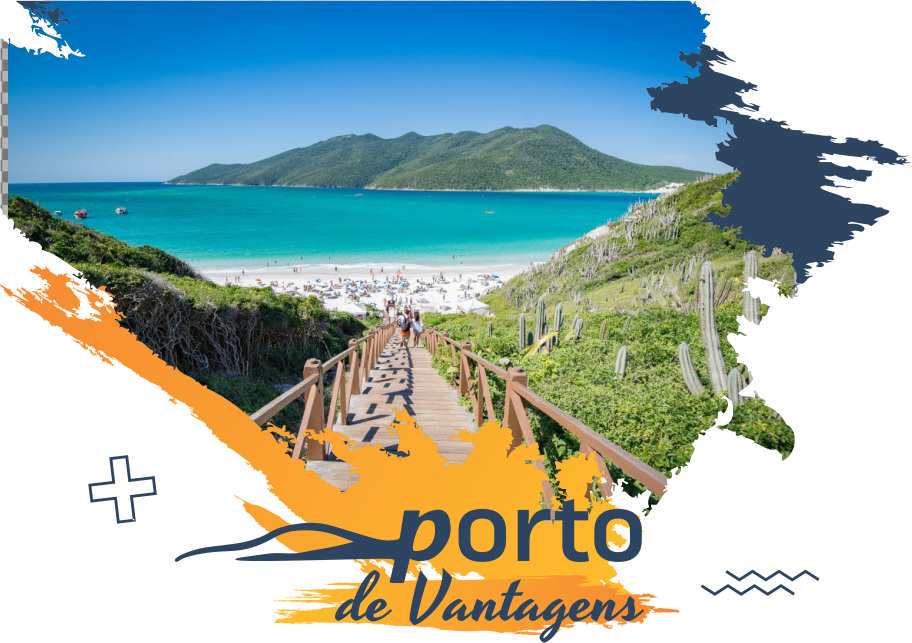
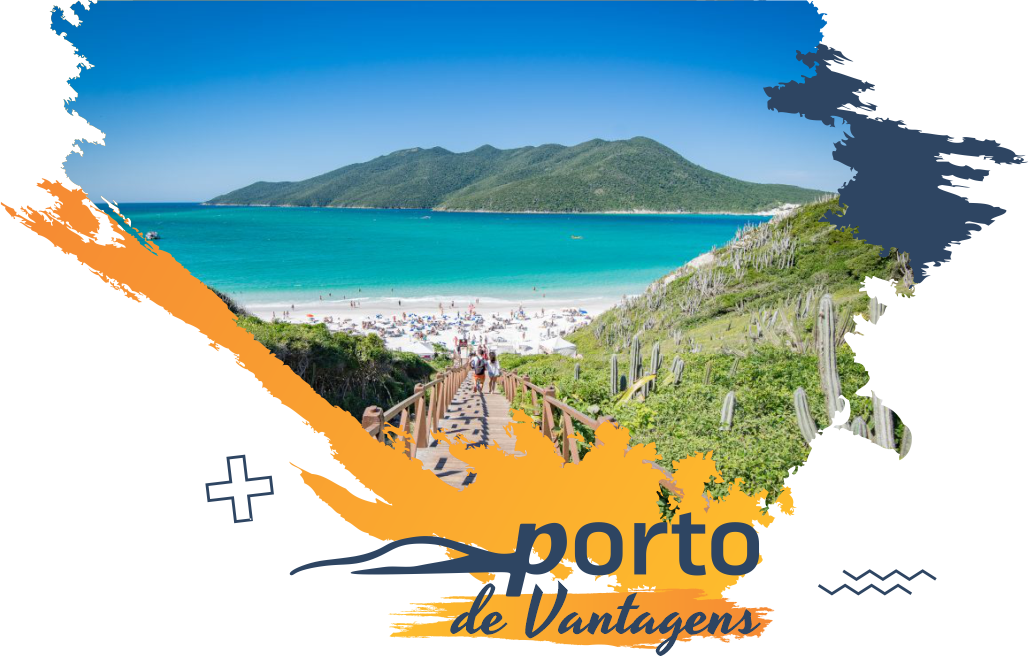
Adicionando nova página de turismo

diff --git a/src/pages/Tourism/Tourism.jsx b/src/pages/Tourism/Tourism.jsx
@@ -1,0 +1,55 @@
+import Footer from "../../components/Footer/Footer";
+import './tourism.css';
+import Navbar from '../../components/Navbar/index';
+import cabofrioImg from '../../assets/images/cabofrio.png'
+import arraialImg from '../../assets/images/arraial.png'
+import buziosImg from '../../assets/images/buzios.png'
+function Tourism() {
+    return (
+        <div className="container">
+            <Navbar />
+            <div className="content">
+                <div className="tourism">
+                    <h1>Turismo</h1>
+                    <div className="text">
+                        <p>Praias encantadoras, mar de águas claras, natureza exuberante e paisagens de tirar o fôlego.<br />
+                            Além de aproveitar seus cupons de desconto, conheça também os melhores lugares para curtir em Arraial do Cabo, Buzios e
+                            Cabo Frio<br />
+                        </p>
+                    </div>
+                    <div className="city">
+                        <h2>Arraial do Cabo</h2>
+                        <p>Conhecida como Caribe brasileiro, Arraial do Cabo concentra praias deslumbrantes, com águas claras que variam entre tons de azul
+                            e verde. A cidade possui uma incrível biodiversidade e não é difícil encontrar golfinhos e tartarugas no mar, sendo esse um dos
+                            principais motivos que tornam Arraial a capital do mergulho. No local, há diversas opções de lazer, como passeios de barco, surf
+                            e trilhas, para quem deseja apreciar a natureza e contemplar as belas paisagens da cidade.</p>
+                        <img src={arraialImg} alt="Arraial do Cabo" />
+                        <a href="https://www.arraial.rj.gov.br/portal/turismo/9" target="_blank" rel="noreferrer">+ Turismo em Arraial do Cabo</a>
+                    </div>
+                    <div className="city">
+                        <h2>Buzios</h2>
+                        <p>A Armação dos Búzios, ou apenas Búzios, é uma península de apenas oito quilômetros de extensão, mas que reúne mais de 20 opções
+                            de praias com diferentes características que agradam todos os gostos. A cidade encanta por suas belas pousadas, excelente gastronomia,
+                            vida noturna agitada, boas opções de compras e, claro, pela deslumbrância de suas paisagens. Apesar de pequeno, o balneário oferece tantas
+                            opções de lazer que é difícil não querer conhecer todas.</p>
+                        <img src={buziosImg} alt="Buzios" />
+                        <a href="https://turismo.buzios.rj.gov.br/" target="_blank" rel="noreferrer">+ Turismo em Buzios</a>
+                    </div>
+                    <div className="city">
+                        <h2>Cabo Frio</h2>
+                        <p>A maior cidade da Região dos Lagos, Cabo Frio possui localização privilegiada, já que está entre Búzios e Arraial do Cabo.
+                            A cidade se destaca pela ótima infraestrutura para os turistas, com diversas opções de hospedagem e um comércio movimentado
+                            para quem gosta de fazer compras. Apesar de serem distantes umas das outras, as praias da região são de fácil acesso e
+                            oferecem paisagens naturais incríveis.</p>
+                        <img src={cabofrioImg} alt="Cabo Frio" />
+                        <a href="https://turismo.cabofrio.rj.gov.br/" target="_blank" rel="noreferrer">+ Turismo em Cabo Frio</a>
+                    </div>
+                </div>
+            </div>
+            <Footer />
+        </div>
+
+    )
+}
+
+export default Tourism;

diff --git a/src/pages/Tourism/tourism.css b/src/pages/Tourism/tourism.css
@@ -1,0 +1,81 @@
+.tourism {
+  display: flex;
+  flex-direction: column;
+  align-items: flex-start;
+  justify-content: center;
+  width: 80%;
+  margin: 60px 0 120px 0;
+}
+
+.tourism h1 {
+  padding: 10px 0;
+}
+
+.tourism .text {
+  display: flex;
+  flex-direction: column;
+  align-items: flex-start;
+  justify-content: center;
+  width: 80%;
+  margin-bottom: 40px;
+}
+
+.tourism .text span {
+  font-weight: 700;
+  margin-bottom: 10px;
+}
+
+.tourism .city {
+  display: flex;
+  flex-direction: column;
+  align-items: flex-start;
+  justify-content: center;
+  margin-bottom: 30px;
+}
+
+.tourism .city h2 {
+  margin-bottom: 15px;
+}
+
+.tourism .city p {
+  margin-bottom: 15px;
+}
+
+.tourism .city img {
+  margin-bottom: 15px;
+}
+
+.tourism .city a {
+  background-color: #f58634;
+  color: #fff;
+  padding: 12px;
+  border-radius: 8px;
+  border: none;
+  font-weight: 700;
+  font-size: 16px;
+  text-align: center;
+  margin-bottom: 40px;
+  text-decoration: none;
+}
+
+@media (max-width: 400px) {
+  .tourism {
+    display: flex;
+    flex-direction: column;
+    align-items: flex-start;
+    justify-content: center;
+    width: 80%;
+  }
+  .tourism h1 {
+    padding: 15px;
+    font-size: 22px;
+  }
+
+  .tourism .text h3 {
+    font-size: 16px;
+  }
+
+  .tourism .text p {
+    font-size: 14px;
+  }
+}

diff --git a/src/components/Navbar/index.js b/src/components/Navbar/index.js
@@ -11,8 +11,7 @@ import {
 import { Link } from 'react-router-dom';
 
 const Navbar = () => {
-
-  const [isOpenModal, setIsOpenModal] = useState(false);
+const [isOpenModal, setIsOpenModal] = useState(false);
 
   function handleOpenModal() {
     setIsOpenModal(true)
@@ -22,14 +21,7 @@ const Navbar = () => {
     setIsOpenModal(false)
   }
 
-
   Modal.setAppElement('#root');
-
-
-
-
-
-
 
   return (
     <div className="container">
@@ -46,11 +38,14 @@ const Navbar = () => {
             Onde Usar?
           </NavLink>
           <NavLink to='/parceiros' activeStyle>
-            Seja um parceiro
+            Parceiros
           </NavLink>
-          <NavLink to='/contato' activeStyle>
-            Fale Conosco
+          <NavLink to='/turismo' activeStyle>
+           Turismo
           </NavLink>
+          {/* <NavLink to='/contato' activeStyle>
+            Contato
+          </NavLink> */}
           {/* Second Nav */}
           {/* <NavBtnLink to='/sign-in'>Sign In</NavBtnLink> */}
           <Bars handleOpenModal={handleOpenModal}></Bars>

diff --git a/src/pages/RegulationPage/regulationPage.css b/src/pages/RegulationPage/regulationPage.css
@@ -1,16 +1,17 @@
-.regulation {
+.regulation-page {
   display: flex;
   flex-direction: column;
   align-items: flex-start;
   justify-content: center;
-  margin: 60px 0;
+  width: 80%;
+  margin: 60px 0 120px 0;
 }
 
-.regulation h1 {
+.regulation-page h1 {
   padding: 30px;
 }
 
-.regulation .text {
+.regulation-page .text {
   display: flex;
   flex-direction: column;
   align-items: flex-start;
@@ -18,29 +19,29 @@
   width: 80%;
 }
 
-.regulation .text span {
+.regulation-page .text span {
   font-weight: 700;
   margin-bottom: 10px;
 }
 
 @media (max-width: 400px) {
-  .regulation {
+  .regulation-page {
     display: flex;
     flex-direction: column;
     align-items: flex-start;
     justify-content: center;
     width: 80%;
   }
-  .regulation h1 {
+  .regulation-page h1 {
     padding: 15px;
     font-size: 22px;
   }
 
-  .regulation .text h3 {
+  .regulation-page .text h3 {
     font-size: 16px;
   }
 
-  .regulation .text p {
+  .regulation-page .text p {
     font-size: 14px;
   }
 }

diff --git a/src/routes/Routes.js b/src/routes/Routes.js
@@ -22,6 +22,7 @@ import PrivacyPolicyPage from '../pages/PrivacyPolicyPage/PrivacyPolicyPage'
 import CompaniesEdit from '../pages/Admin/CompaniesEdit/CompaniesEdit';
 import CuponsEdit from '../pages/Admin/CuponsEdit/CuponsEdit';
 import EditUser from '../pages/Admin/EditUser/EditUser';
+import Tourism from '../pages/Tourism/Tourism';
  
 function Routes() {
     return (
@@ -37,6 +38,7 @@ function Routes() {
             <RouteWrapper exact path="/new" component={UploadImage} />
             <RouteWrapper exact path="/termos-de-uso" component={TermsOfUsePage} />
             <RouteWrapper exact path="/politica-de-privacidade" component={PrivacyPolicyPage} />
+            <RouteWrapper exact path="/turismo" component={Tourism} />
 
             
             <RouteWrapper exact path="/admin/painel" component={Dashboard} isPrivate />

diff --git a/src/components/Header/Header.jsx b/src/components/Header/Header.jsx
@@ -15,11 +15,10 @@ function Header() {
             </div>
             <div className="text">
             <img src={imgParticipe} alt="header" />
-            <h3>ALUGUE UM VEÍCULO CONOSCO E TENHA DESCONTOS EM LOJAS, RESTAURANTES, HOTEIS E MAIS...</h3>
+            <h3>ALUGUE UM VEÍCULO CONOSCO E TENHA <br />DESCONTOS EM LOJAS, RESTAURANTES, <br />HOTEIS E MAIS...</h3>
                 <div className="buttons">
                     <Link className="btn-header"  to="/buscar-cupom">VER MEUS CUPONS</Link>
                     <Link className="btn-header-2" to='/validar-cupom'>VALIDAR CUPOM</Link>
-                   <Link  to='/regulamento'>VER REGULAMENTO COMPLETO</Link>
                 </div>
             </div>
         </div>

diff --git a/src/pages/SearchCupom/SearchCupom.jsx b/src/pages/SearchCupom/SearchCupom.jsx
@@ -80,7 +80,6 @@ function handleRedirect() {
             <Navbar />
         <div className="content">
         <div className="box">
-            <br/> <br/> <br/> <br/>
             <h1> VER MEUS CUPONS {id}</h1>
             <form className="form-search">
                 <label>CPF (Apenas números)</label>
@@ -90,7 +89,7 @@ function handleRedirect() {
             </form>
             
         {verification === ''? 
-        <div className="text-info"><p>VOCÊ VERÁ SEUS CUPONS AQUI!</p></div>: 
+        <div className="text-info"><br /><br /><h3>VOCÊ VERÁ SEUS CUPONS AQUI!</h3></div>: 
         data.map(user => {
             return (
                 <div className={user.css}>

diff --git a/src/pages/RegulationPage/RegulationPage.jsx b/src/pages/RegulationPage/RegulationPage.jsx
@@ -6,7 +6,7 @@ function RegulationPage() {
         <div className="container">
             <Navbar />
             <div className="content">
-                <div className="regulation">
+                <div className="regulation-page">
                     <h1>REGULAMENTO</h1>
                     <div className="text">
                 <p>O programa PORTO DE VANTAGENS é válido exclusivamente para os estabelecimentos parceiros previamente cadastrados em nosso hot site, o código promocional de acesso para o cliente PORTO RENT A CAR pode ser utilizado por até 30 (TRINTA) dias a partir da data da retirada do veiculo, quantas vezes quiser.<br /><br />

diff --git a/src/components/Navbar/NavbarElements.js b/src/components/Navbar/NavbarElements.js
@@ -34,7 +34,7 @@ export const Bars = styled(FaBars)`
   display: none;
   color: #2E4562;
   z-index: 99;
-  @media screen and (max-width: 768px) {
+  @media screen and (max-width: 900px) {
     display: block;
     position: absolute;
     top: 0;
@@ -57,7 +57,7 @@ export const NavMenu = styled.div`
   /* width: 100vw;
   white-space: nowrap; */
 
-  @media screen and (max-width: 768px) {
+  @media screen and (max-width: 900px) {
     display: none;
   }
 `;

diff --git a/src/pages/ValidadeCupom/ValidadeCupom.jsx b/src/pages/ValidadeCupom/ValidadeCupom.jsx
@@ -75,7 +75,7 @@ function ValidadeCupom() {
             </form>
             
        {data.length === 0 ? 
-       <div className="text"> <h3>SEU CUPOM APARECERÁ AQUI!</h3></div> :
+       <div className="text"><br /><br /> <h3>SEU CUPOM APARECERÁ AQUI!</h3></div> :
        <div className={disponible === "Disponível" ? "verde" : "vermelho" }>
             <div className="data">
                         <div className="infos">

diff --git a/src/components/Enterprise/enterprise.css b/src/components/Enterprise/enterprise.css
@@ -1,5 +1,5 @@
 .company {
-  margin-top: -150px;
+  margin-top: 150px;
   display: flex;
   flex-direction: row;
   align-items: center;
@@ -8,7 +8,6 @@
 
 .company .company-texts {
   width: 320px;
-  margin-top: 150px;
 }
 
 .company .company-texts .company-text-iten {
@@ -49,6 +48,7 @@
   flex-direction: column;
   align-items: center;
   justify-content: space-between;
+  margin-top: -150px;
 }
 
 .company .title img {

diff --git a/src/components/Header/header.css b/src/components/Header/header.css
@@ -15,8 +15,8 @@
 }
 
 .header .header-img img {
-  width: 750px;
-  margin: -90px 0 0 -75px;
+  width: 680px;
+  margin: -80px 20px 0 -50px;
 }
 
 .header .text {
@@ -24,7 +24,7 @@
   flex-direction: column;
   align-items: center;
   justify-content: flex-start;
-  padding: 0 30px;
+  padding: 0 80px 0 50px;
   height: 450px;
   text-align: center;
 }
